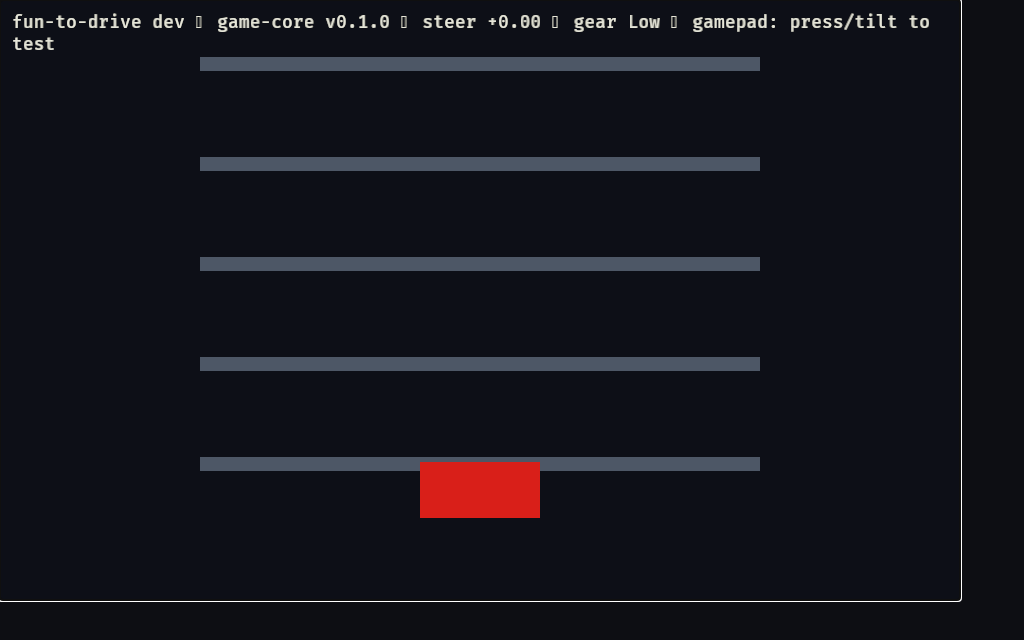
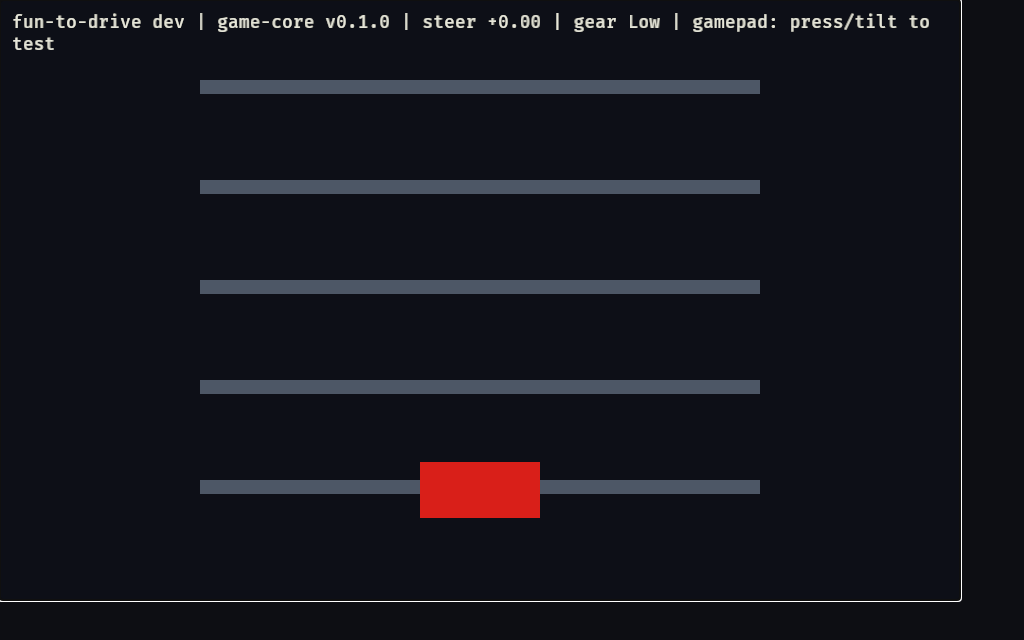
M4 fix: ASCII HUD separators (missing glyph caught by eyes QA); archive keyboard+scroll verification shots

diff --git a/crates/game-app/src/main.rs b/crates/game-app/src/main.rs
@@ -134,7 +134,7 @@ fn scroll_stripes(mut stripes: Query<&mut Transform, With<Stripe>>, time: Res<Ti
 fn update_hud(state: Res<SpikeState>, mut hud: Query<&mut Text, With<Hud>>) {
     if let Ok(mut text) = hud.single_mut() {
         **text = format!(
-            "fun-to-drive dev · game-core v{} · steer {:+.2} · gear {:?} · gamepad: {}",
+            "fun-to-drive dev | game-core v{} | steer {:+.2} | gear {:?} | gamepad: {}",
             game_core::version(),
             state.steer,
             state.gear,
